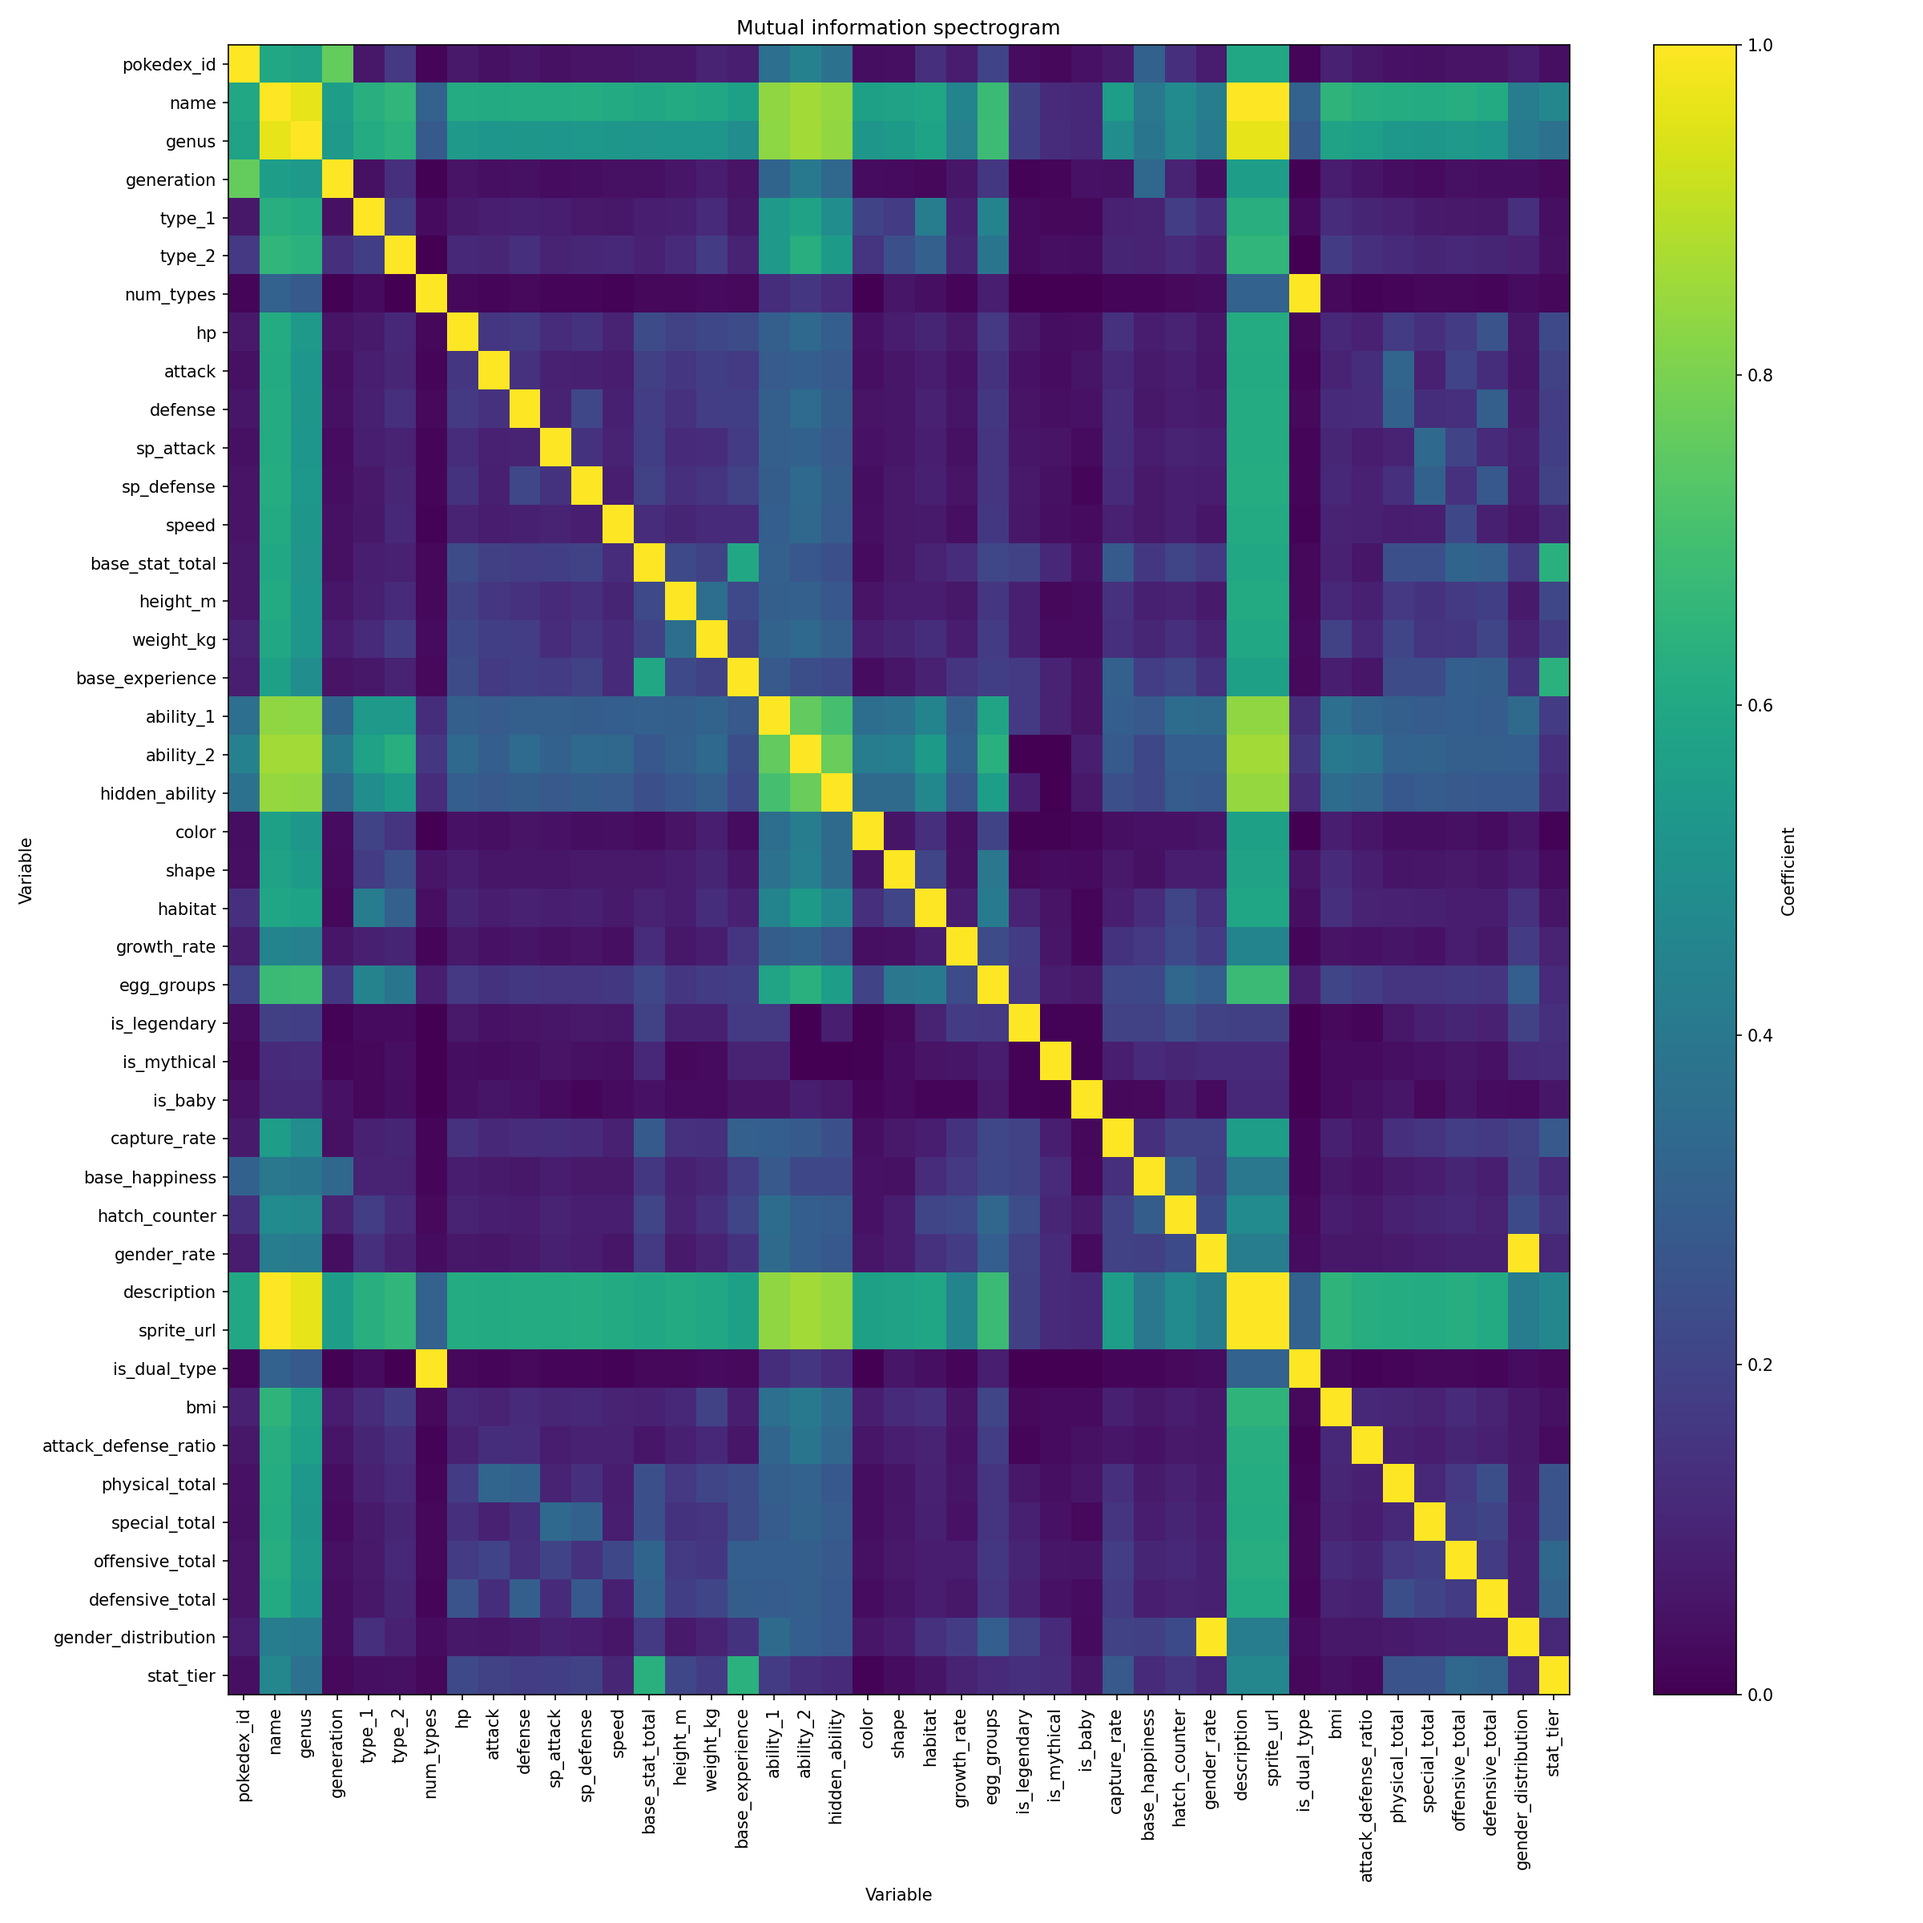
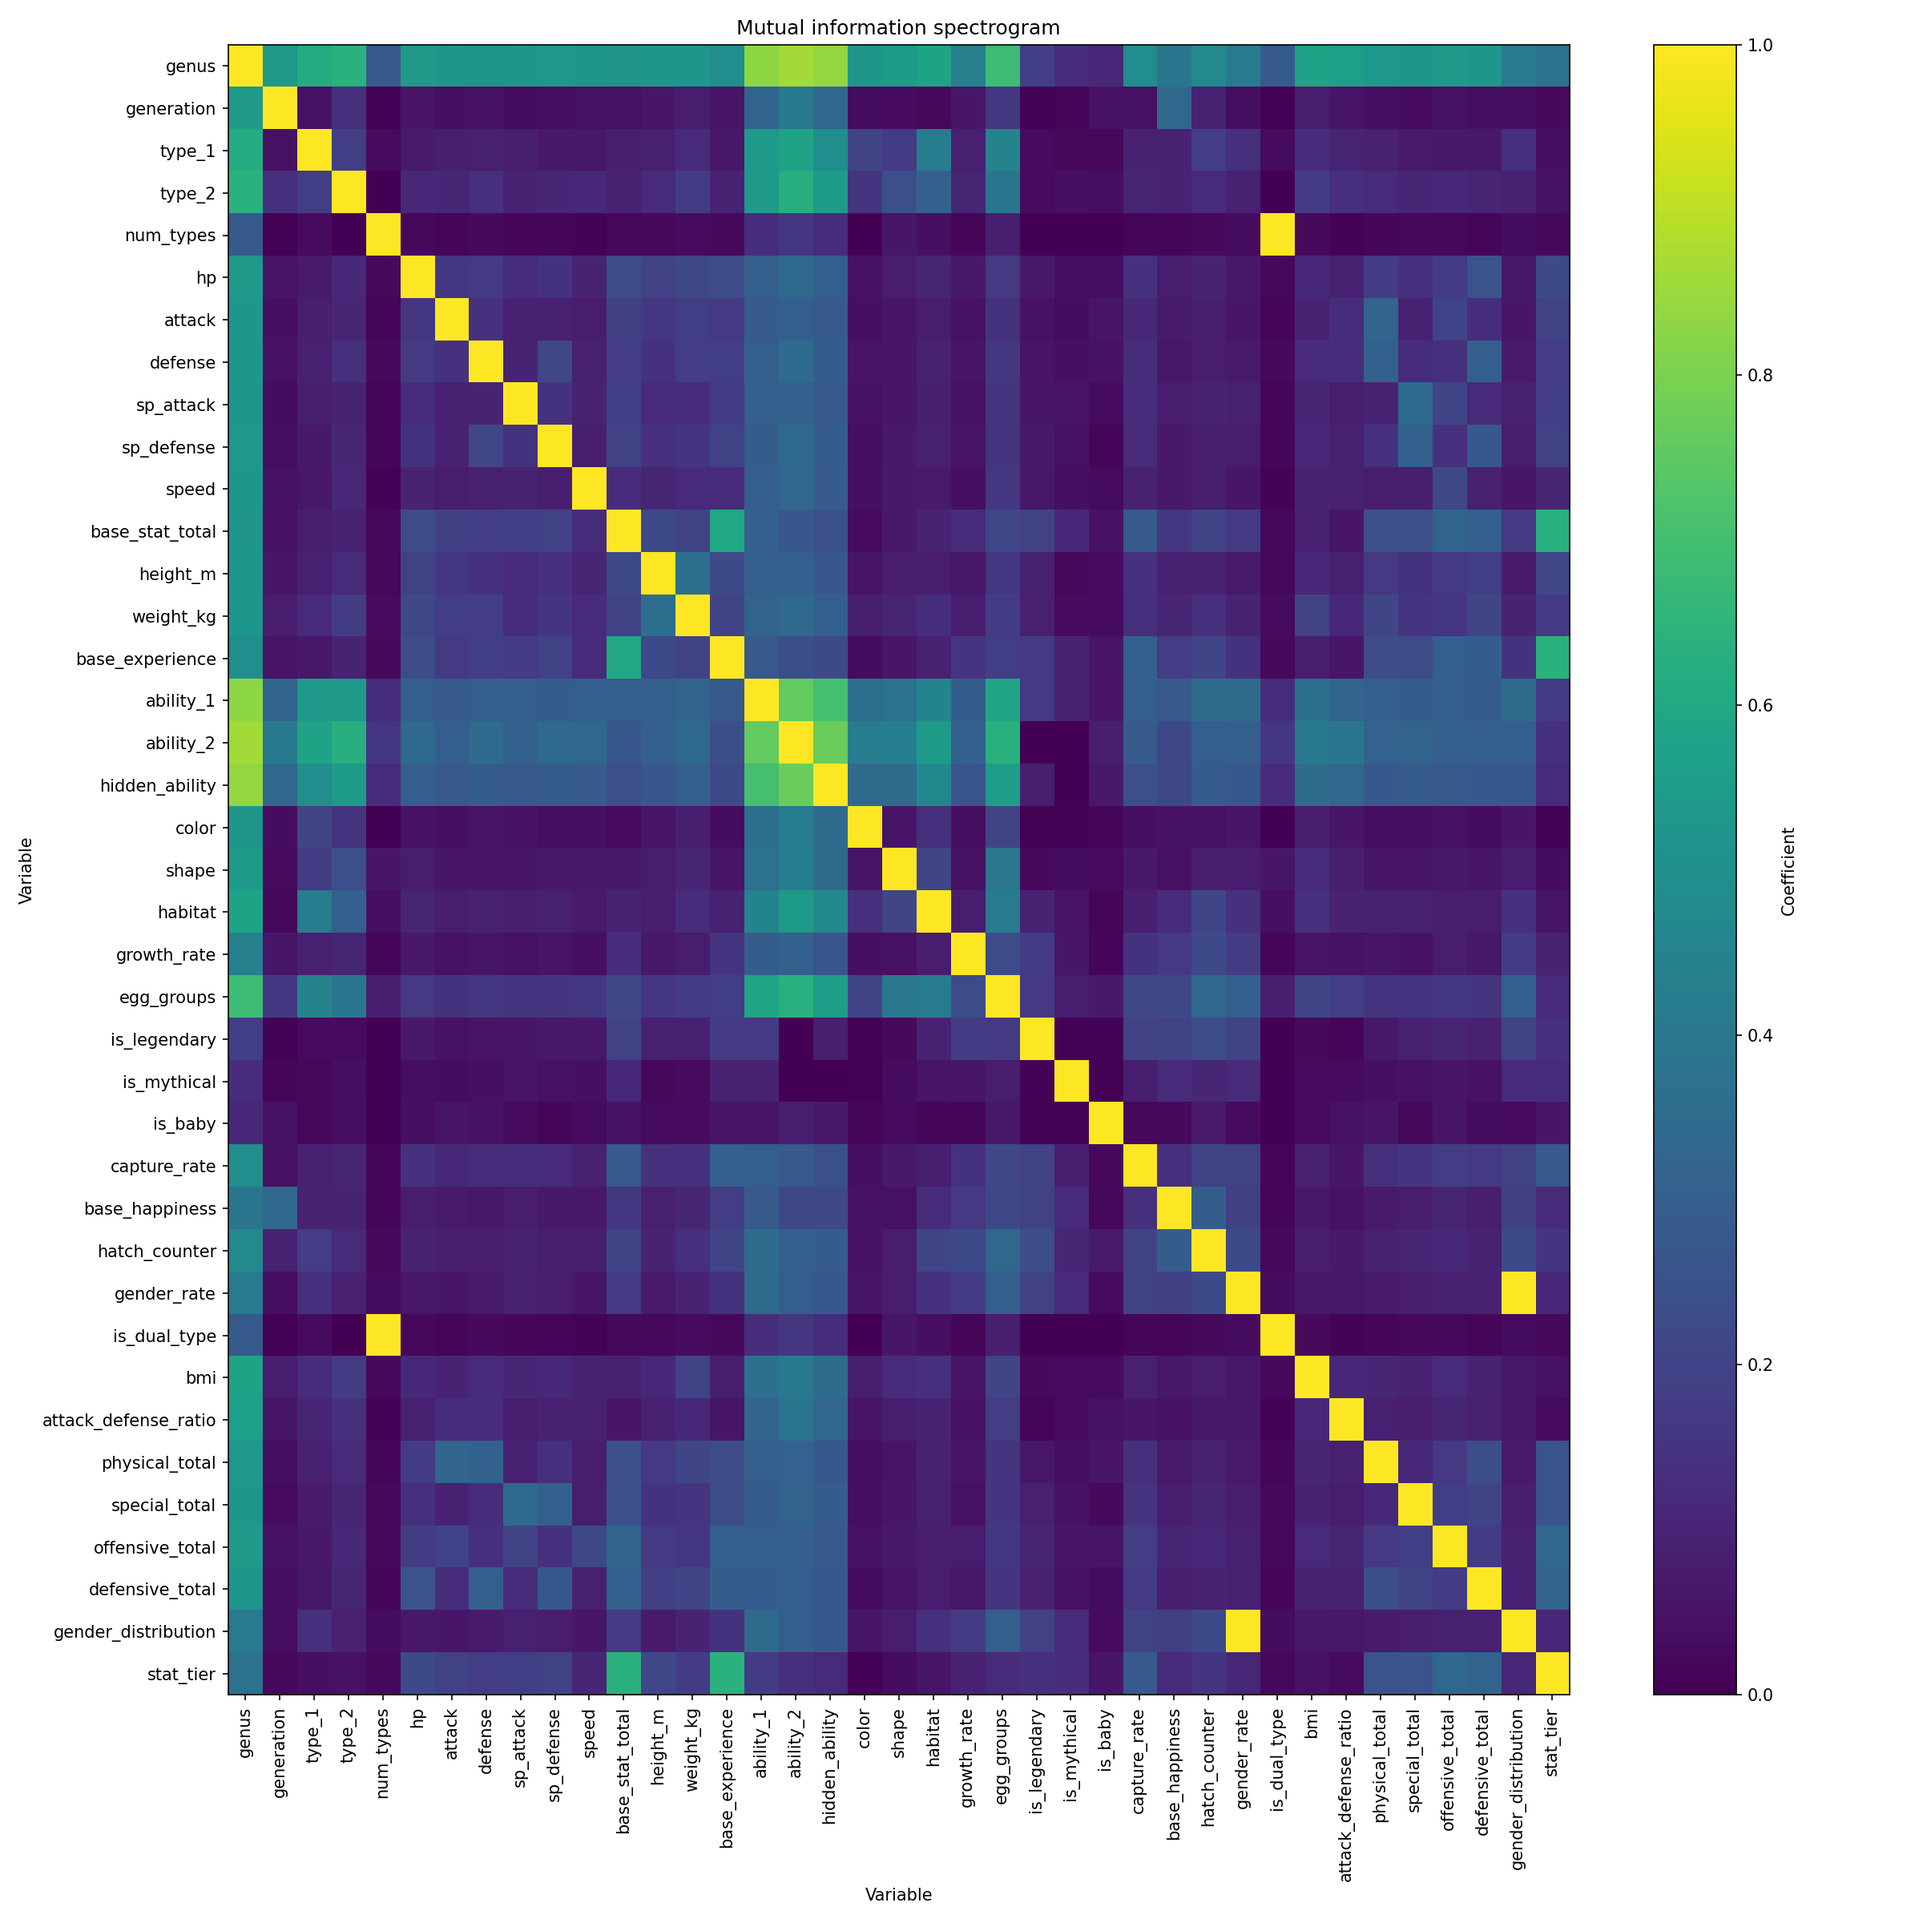
chore: cleaned terminal printout

Changed region(s): [[0.0312, 0.0, 0.8125, 0.9688], [0.7812, 0.4062, 0.8125, 0.4375]]

diff --git a/runner.py b/runner.py
@@ -34,6 +34,7 @@ EXPECTED_SETTINGS = {
     "alpha",
     "max_bins",
     "spectrogram",
+    "exclude_columns",
 }
 
 
@@ -62,6 +63,10 @@ def load_config() -> dict:
         raise ValueError("analysis must be 'mic' or 'mutual_information'")
     if not isinstance(config["spectrogram"], bool):
         raise ValueError("spectrogram must be true or false")
+    if not isinstance(config["exclude_columns"], list) or not all(
+        isinstance(column, str) for column in config["exclude_columns"]
+    ):
+        raise ValueError("exclude_columns must be a list of column names")
     return config
 
 
@@ -178,6 +183,17 @@ def main() -> None:
         raise FileNotFoundError(f"Input dataset was not found: {input_csv.resolve()}")
 
     data = pd.read_csv(input_csv)
+    configured_exclusions = config["exclude_columns"]
+    excluded = [
+        column for column in configured_exclusions if column in data.columns
+    ]
+    skipped_exclusions = [
+        column for column in configured_exclusions if column not in data.columns
+    ]
+    if excluded:
+        data = data.drop(columns=excluded)
+    if data.shape[1] < 2:
+        raise ValueError("at least two columns must remain after exclusions")
     if config["analysis"] == "mic":
         result = maximal_information_coefficient_matrix(
             data,
@@ -206,6 +222,13 @@ def main() -> None:
     )
     feature_pairs_path = config_directory / "feature_pairs.csv"
     feature_pairs.to_csv(feature_pairs_path, index=False)
+    if excluded:
+        print(f"\nExcluded columns: {', '.join(excluded)}")
+    if skipped_exclusions:
+        print(
+            "Skipped exclusions not found in dataset: "
+            f"{', '.join(skipped_exclusions)}"
+        )
     print(f"\nSaved feature pairs to: {feature_pairs_path.resolve()}")
 
     if config["output_csv"] is not None:
@@ -219,7 +242,6 @@ def main() -> None:
             analysis_name,
             config_directory / "spectrogram.png",
         )
-
 
 if __name__ == "__main__":
     main()

diff --git a/README.md b/README.md
@@ -49,6 +49,7 @@ Edit `config.yaml` before running the analysis:
 ```yaml
 input_csv: datasets/sample_dataset.csv
 analysis: mic
+exclude_columns: []
 discrete: auto
 bins: auto
 normalize: true
@@ -68,6 +69,7 @@ max_bins: null
 | --- | --- |
 | `analysis` | Selects `mic` or `mutual_information`. |
 | `input_csv` | Path to the input CSV file. Relative paths start from the directory containing `config.yaml`. |
+| `exclude_columns` | Column names to remove before calculating the relationship matrix. Names absent from the dataset are skipped. Use `[]` to keep every column. |
 | `discrete` | Controls which variables are treated as discrete. See the options below. |
 | `bins` | Histogram rule, bin count, or bin-edge list used for continuous variables. |
 | `normalize` | Controls whether and how the mutual information is normalized. |
